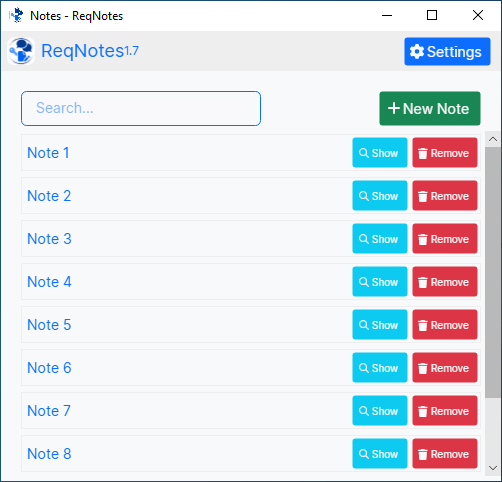
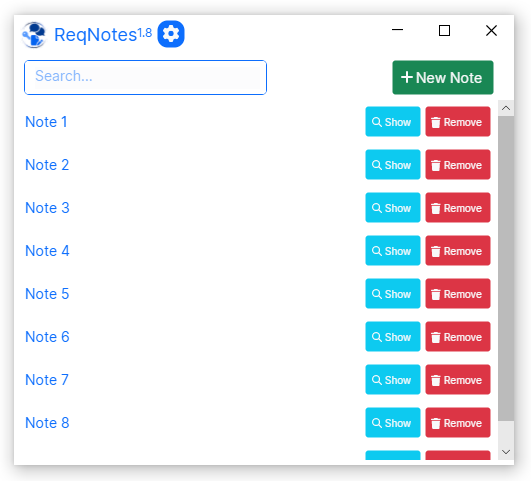
Updated v1.8 (Modern UI)

Changed region(s): [[0.0, 0.0, 1.0, 1.0]]

diff --git a/README.md b/README.md
@@ -21,7 +21,7 @@
   </p>
 </div>
 
-![version](https://img.shields.io/badge/version-1.7-blue)
+![version](https://img.shields.io/badge/version-1.8-blue)
 ![Downloads](https://img.shields.io/github/downloads/ReqBaa/ReqNotes/total) ![Contributors](https://img.shields.io/github/contributors/ReqBaa/ReqNotes?color=dark-green) ![Issues](https://img.shields.io/github/issues/ReqBaa/ReqNotes) [![License: GPL v3](https://img.shields.io/badge/License-GPLv3-blue.svg)](https://www.gnu.org/licenses/gpl-3.0)
 
 <!-- ABOUT THE PROJECT -->
@@ -49,13 +49,13 @@ ReqNotes:
 _Windows:_
 * Download the latest version and Install:
 
-  * x64 (v1.7): [Download](https://github.com/ReqBaa/ReqNotes/releases/download/v1.7/reqnotessetup-x64-1.7.exe)
+  * x64 (v1.8): [Download](https://github.com/ReqBaa/ReqNotes/releases/download/v1.8/reqnotessetup-x64-1.8.exe)
 
-  * x86 (v1.7): [Download](https://github.com/ReqBaa/ReqNotes/releases/download/v1.7/reqnotessetup-x86-1.7.exe)
+  * x86 (v1.8): [Download](https://github.com/ReqBaa/ReqNotes/releases/download/v1.8/reqnotessetup-x86-1.8.exe)
 
 _Linux:_
 - Download and Install deb:
-  - amd64 (v1.7): [Download](https://github.com/ReqBaa/repo/raw/33d80f78a776e165f8caede21a8ed697468bf451/pool/main/r/reqnotes/reqnotes_1.7-0ubuntu1_amd64.deb)
+  - amd64 (v1.8): [Download](https://github.com/ReqBaa/repo/raw/main/pool/main/r/reqnotes/reqnotes_1.8-0ubuntu1_amd64.deb)
 - or Install with apt:
   - Open terminal:
   ```sh
